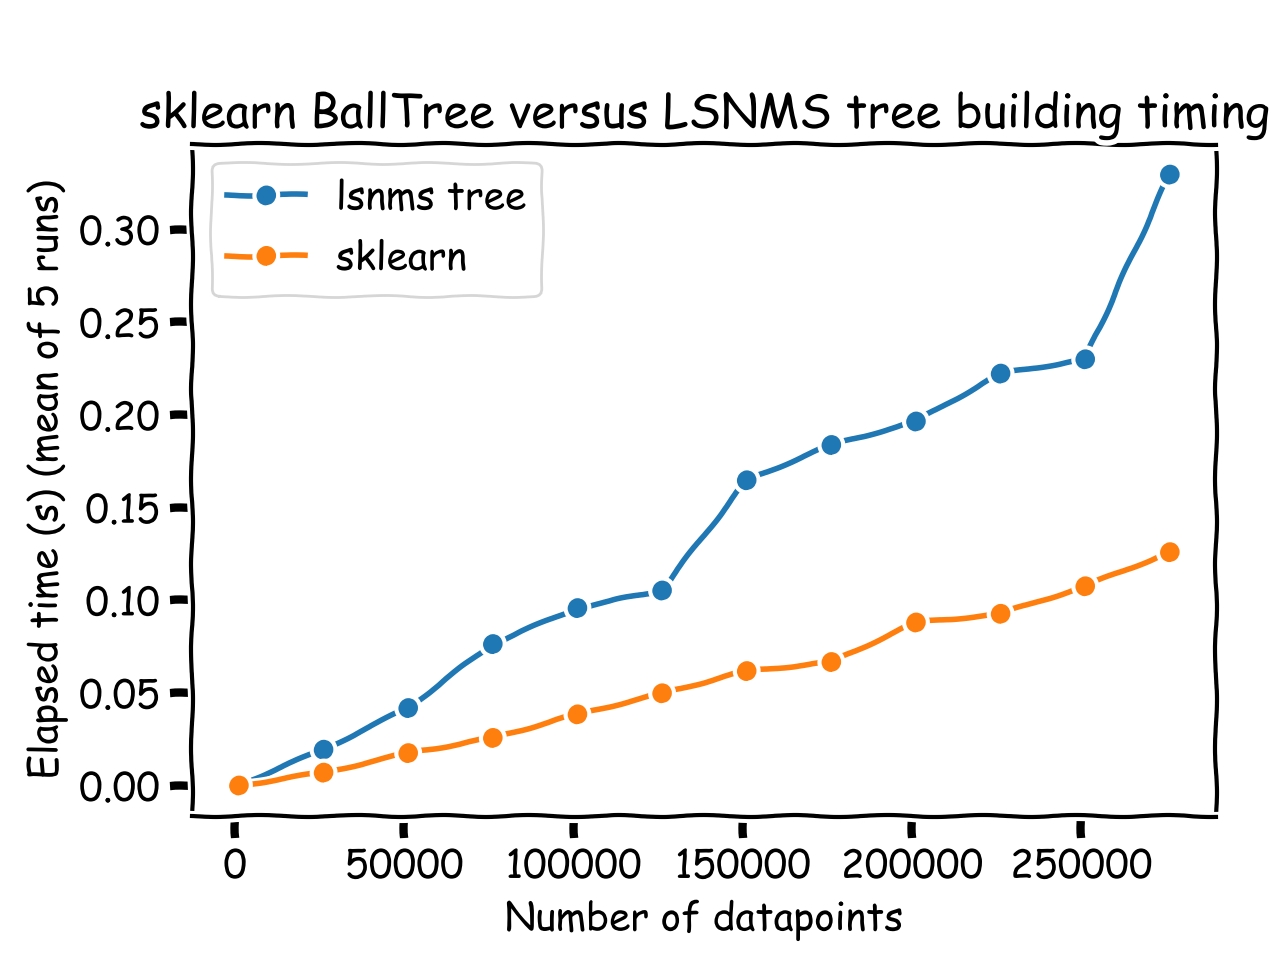
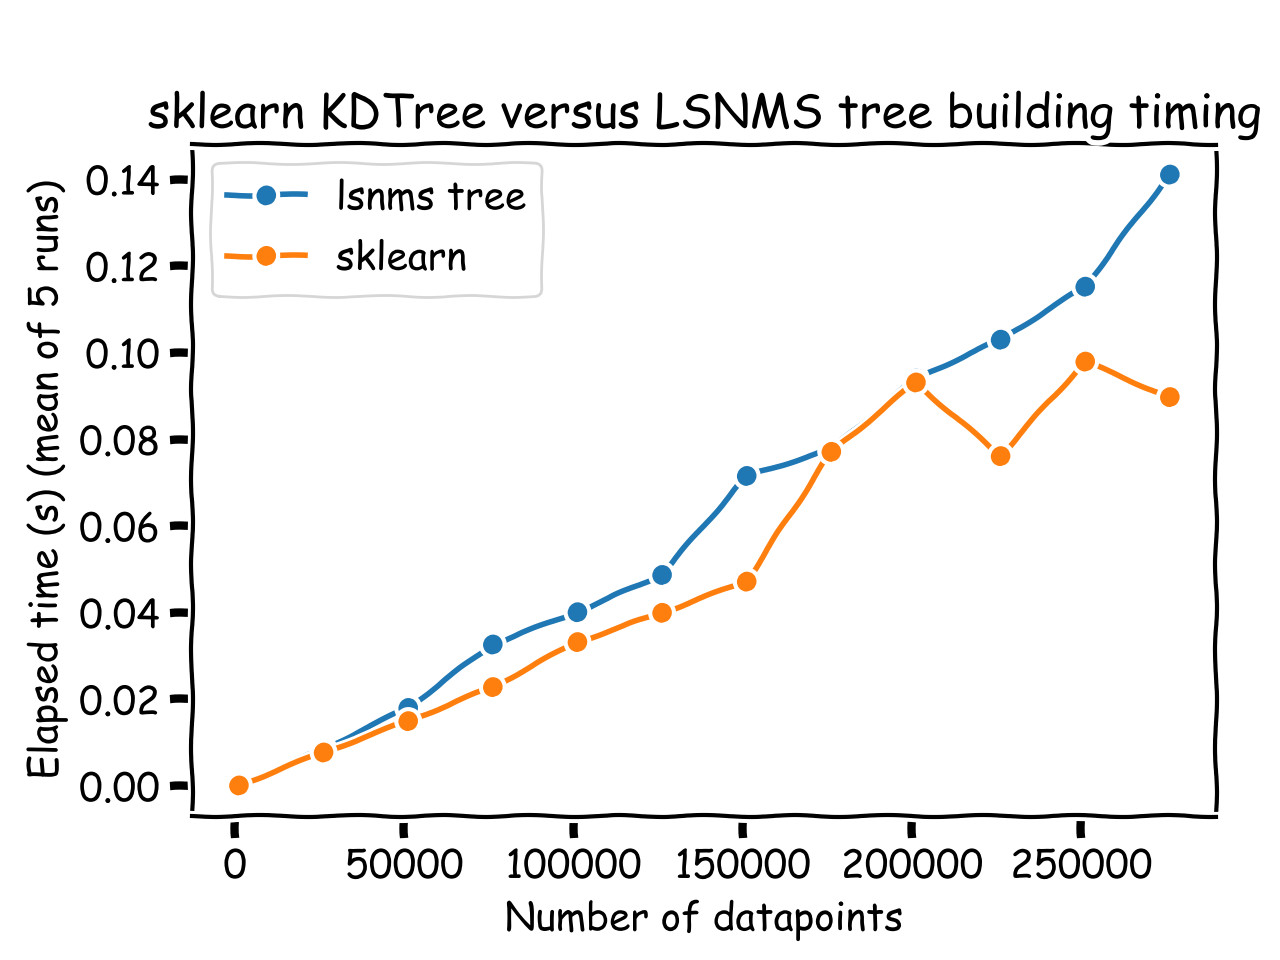
- improved the node splitting method - Updated the runtimes comparison versus sklearn - fixed little typos in the readme - fixed typechecks in the trees

diff --git a/lsnms/util.py b/lsnms/util.py
@@ -142,8 +142,7 @@ def max_spread_axis(data):
 def split_along_axis(data, axis):
     """
     Splits the data along axis in two datasets of equal size.
-    Note that this could probably be optimized further, by implementing the median algorithm from
-    scratch.
+    This method uses an adapted re-implementation of `np.argpartition`
 
     Parameters
     ----------
@@ -157,17 +156,7 @@ def split_along_axis(data, axis):
     Tuple[np.array]
         Left data point indices, right data point indices
     """
-    indices = np.arange(len(data))
-    cap = np.median(data[:, axis])
-    mask = data[:, axis] <= cap
-    n_left = mask.sum()
-    # Account for the case where all positions along this axis are equal: split in the middle
-    if n_left == len(data) or n_left == 0:
-        left = indices[: len(indices) // 2]
-        right = indices[len(indices) // 2 :]
-    else:
-        left = indices[mask]
-        right = indices[np.logical_not(mask)]
+    left, right = median_argsplit(data[:, axis])
     return left, right
 
 
@@ -217,3 +206,99 @@ def englobing_box(data):
         bounds.insert(j, data[:, j].min())
         bounds.insert(2 * j + 1, data[:, j].max())
     return np.array(bounds)
+
+
+@njit
+def _partition(A, low, high, indices):
+    """
+    This is straight from numba master:
+    https://github.com/numba/numba/blob/b5bd9c618e20985acb0b300d52d57595ef6f5442/numba/np/arraymath.py#L1155
+    I modified it so the swaps operate on the indices as well, because I need a argpartition
+    """
+    mid = (low + high) >> 1
+    # NOTE: the pattern of swaps below for the pivot choice and the
+    # partitioning gives good results (i.e. regular O(n log n))
+    # on sorted, reverse-sorted, and uniform arrays.  Subtle changes
+    # risk breaking this property.
+    # Use median of three {low, middle, high} as the pivot
+    if A[mid] < A[low]:
+        A[low], A[mid] = A[mid], A[low]
+        indices[low], indices[mid] = indices[mid], indices[low]
+    if A[high] < A[mid]:
+        A[high], A[mid] = A[mid], A[high]
+        indices[high], indices[mid] = indices[mid], indices[high]
+    if A[mid] < A[low]:
+        A[low], A[mid] = A[mid], A[low]
+        indices[low], indices[mid] = indices[mid], indices[low]
+    pivot = A[mid]
+
+    A[high], A[mid] = A[mid], A[high]
+    indices[high], indices[mid] = indices[mid], indices[high]
+    i = low
+    j = high - 1
+    while True:
+        while i < high and A[i] < pivot:
+            i += 1
+        while j >= low and pivot < A[j]:
+            j -= 1
+        if i >= j:
+            break
+        A[i], A[j] = A[j], A[i]
+        indices[i], indices[j] = indices[j], indices[i]
+        i += 1
+        j -= 1
+    # Put the pivot back in its final place (all items before `i`
+    # are smaller than the pivot, all items at/after `i` are larger)
+    # print(A)
+    A[i], A[high] = A[high], A[i]
+    indices[i], indices[high] = indices[high], indices[i]
+
+    return i
+
+
+@njit
+def _select(arry, k, low, high):
+    """
+    This is straight from numba master:
+    https://github.com/numba/numba/blob/b5bd9c618e20985acb0b300d52d57595ef6f5442/numba/np/arraymath.py#L1155
+    Select the k'th smallest element in array[low:high + 1].
+    """
+    indices = np.arange(len(arry))
+    i = _partition(arry, low, high, indices)
+    while i != k:
+        if i < k:
+            low = i + 1
+            i = _partition(arry, low, high, indices)
+        else:
+            high = i - 1
+            i = _partition(arry, low, high, indices)
+    return indices, i
+
+
+@njit
+def median_argsplit(arry):
+    """
+    Splits `arry` into two sets of indices, indicating values
+    above and below the pivot value. Often, pivot is the median.
+
+    This is approx. three folds faster than computing the median,
+    then find indices of values below (left indices) and above (right indices)
+
+    Parameters
+    ----------
+    arry : np.array
+        One dimensional values array
+
+    Returns
+    -------
+    Tuple[np.array]
+        Indices of values below median, indices of values above median
+    """
+    low = 0
+    high = len(arry) - 1
+    k = len(arry) >> 1
+    tmp_arry = arry.flatten()
+    indices, i = _select(tmp_arry, k, low, high)
+    left = indices[:k]
+    right = indices[k:]
+    return left, right

diff --git a/tests/timings_kdtree.py b/tests/timings_kdtree.py
@@ -104,12 +104,13 @@ def test_tree_query_timing():
 
     ns = np.arange(1000, 200000, 10000)
     ts = []
+    leaf_size = 64
     naive_ts = []
     repeats = 100
     for n in ns:
         data = np.random.uniform(0, 1000, (n, 2))
-        sk_tree = skKDT(data, leaf_size=16)
-        tree = KDTree(data, leaf_size=16)
+        sk_tree = skKDT(data, leaf_size=int(leaf_size * 0.67))
+        tree = KDTree(data, leaf_size=leaf_size)
         _ = tree.query_radius(data[0], 200.0)
         timer = Timer(lambda: tree.query_radius(data[0], 100.0))
         ts.append(timer.timeit(number=repeats) / repeats * 1000)
@@ -130,14 +131,15 @@ def test_tree_query_timing():
 
 def test_tree_building_timing():
     ns = np.arange(1000, 300000, 25000)
+    leaf_size = 64
     ts = []
     naive_ts = []
     for n in ns:
         data = np.random.uniform(0, n, (n, 2))
         _ = KDTree(data, 16)
-        timer = Timer(lambda: KDTree(data, 16))
+        timer = Timer(lambda: KDTree(data, leaf_size))
         ts.append(timer.timeit(number=5) / 5)
-        naive_timer = Timer(lambda: skKDT(data, 16))
+        naive_timer = Timer(lambda: skKDT(data, int(leaf_size * 0.67)))
         naive_ts.append(naive_timer.timeit(5) / 5)
 
     with plt.xkcd():

diff --git a/tests/timings_balltree.py b/tests/timings_balltree.py
@@ -15,11 +15,12 @@ def test_tree_query_timing():
     ns = np.arange(1000, 200000, 10000)
     ts = []
     naive_ts = []
+    leaf_size = 64
     repeats = 100
     for n in ns:
         data = np.random.uniform(0, 1000, (n, 2))
-        sk_tree = skBT(data, leaf_size=16)
-        tree = BallTree(data, leaf_size=16)
+        sk_tree = skBT(data, leaf_size=leaf_size)
+        tree = BallTree(data, leaf_size=int(leaf_size * 0.67))
         _ = tree.query_radius(data[0], 200.0)
         timer = Timer(lambda: tree.query_radius(data[0], 100.0))
         ts.append(timer.timeit(number=repeats) / repeats * 1000)
@@ -42,13 +43,14 @@ def test_tree_building_timing():
 
     ns = np.arange(1000, 300000, 25000)
     ts = []
+    leaf_size = 64
     naive_ts = []
     for n in ns:
         data = np.random.uniform(0, n, (n, 2))
         _ = BallTree(data, 16)
-        timer = Timer(lambda: BallTree(data, 16))
+        timer = Timer(lambda: BallTree(data, leaf_size))
         ts.append(timer.timeit(number=5) / 5)
-        naive_timer = Timer(lambda: skBT(data, 16))
+        naive_timer = Timer(lambda: skBT(data, int(leaf_size * 0.67)))
         naive_ts.append(naive_timer.timeit(5) / 5)
 
     with plt.xkcd():

diff --git a/lsnms/kdtree.py b/lsnms/kdtree.py
@@ -57,6 +57,9 @@ class Node:
         self.axis = axis
         self.dimensionality = data.shape[-1]
 
+        if len(self.data) == 0:
+            raise ValueError('Empty data')
+        
         # Stores indices of each data point
         if indices is None:
             self.indices = np.arange(len(data))
@@ -145,8 +148,8 @@ class Node:
         """
         if X.ndim > 1:
             raise ValueError("query_radius only works on single query point.")
-        if len(X) != 2:
-            raise ValueError("Query point must be two-dimensional")
+        if X.shape[-1] != self.dimensionality:
+            raise ValueError("Tree and query dimensionality do not match")
         # Initialize empty list of int64
         # Needs to be typed
         buffer = [0][:0]

diff --git a/lsnms/balltree.py b/lsnms/balltree.py
@@ -54,6 +54,9 @@ class Node:
         # Stores the data
         self.data = data
 
+        if len(self.data) == 0:
+            raise ValueError('Empty data')
+
         # Stores indices of each data point
         if indices is None:
             self.indices = np.arange(len(data))
@@ -139,8 +142,8 @@ class Node:
         """
         if X.ndim > 1:
             raise ValueError("query_radius only works on single query point.")
-        if len(X) != 2:
-            raise ValueError("Query point must be two-dimensional")
+        if X.shape[-1] != self.dimensionality:
+            raise ValueError("Tree and query dimensionality do not match")
         # Initialize empty list of int64
         # Needs to be typed
         buffer = [0][:0]

diff --git a/README.md b/README.md
@@ -137,6 +137,3 @@ The (minor) slow down observed against sklearn implementation is probably relate
 </p>
 
 Query time are somehow identical. However, my implementation does seem to not scale as well as scikit-learn's one, a minor slowdown could be observed for extremely large datasets (million-ish data points).
-
-### Warnings
-Because input data needs to be typed: the dimensionality of the process is fixed in advance. This BallTree implementation can not work on 3D and above data (although it is a one-liner fix).
